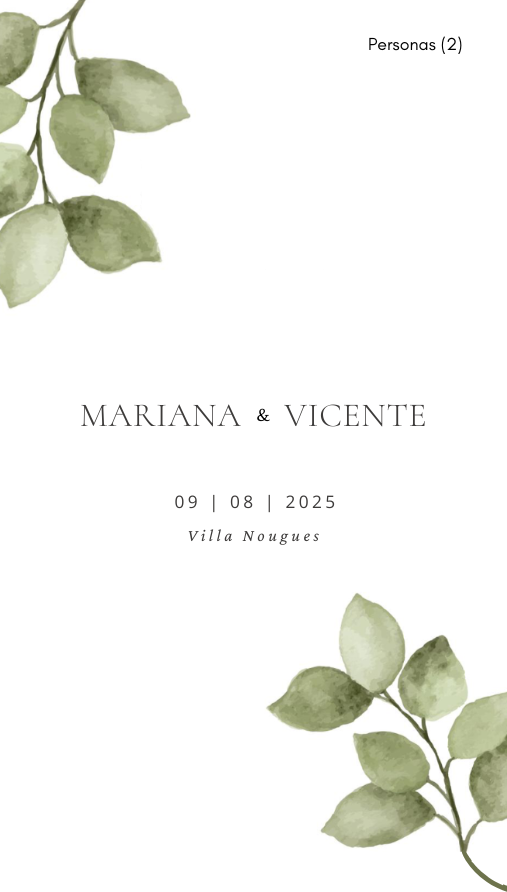
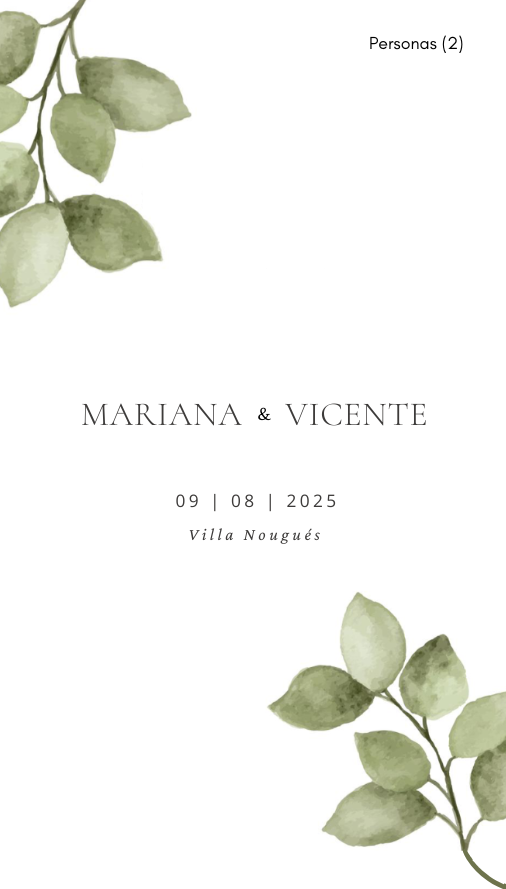
formularios

diff --git a/src/app/Mariana&Vicente(x1)/page.jsx b/src/app/Mariana&Vicente(x1)/page.jsx
@@ -39,7 +39,7 @@ CTA: 4274084-2 089-9
 CBU: 00700894-30004274084299
 CUIL: 27-37191501-5
 
-• Buzon en salon`;
+• Buzón en salón`;
 
   // Texto personalizado para la descripción de regalos
   const regaloDescripcion = " ";
@@ -77,7 +77,7 @@ CUIL: 27-37191501-5
         textColor={textColor}
       />
         <Confirmation
-          linkConfirmacion="https://forms.gle/fuzJNrEwuVzhaW4x7"
+          linkConfirmacion="https://forms.gle/ZFFBBPVn3rUhGFzz7"
           buttonClassColors={`${buttonBgColor} ${buttonTextColor} ${buttonHoverColor}`}
           textColor={textColor}
           descripcion="Nuestro festejo no sería lo mismo sin vos. Confirmanos tu presencia a

diff --git a/src/app/Mariana&Vicente(x1fiesta)/page.jsx b/src/app/Mariana&Vicente(x1fiesta)/page.jsx
@@ -39,7 +39,7 @@ CTA: 4274084-2 089-9
 CBU: 00700894-30004274084299
 CUIL: 27-37191501-5
 
-• Buzon en salon`;
+• Buzón en salón`;
 
   // Texto personalizado para la descripción de regalos
   const regaloDescripcion = " ";
@@ -74,7 +74,7 @@ CUIL: 27-37191501-5
         textColor={textColor}
       />
         <Confirmation
-          linkConfirmacion="https://forms.gle/fuzJNrEwuVzhaW4x7"
+          linkConfirmacion="https://forms.gle/6xwCsiibj9FYEw94A"
           buttonClassColors={`${buttonBgColor} ${buttonTextColor} ${buttonHoverColor}`}
           textColor={textColor}
           descripcion="Nuestro festejo no sería lo mismo sin vos. Confirmanos tu presencia a

diff --git a/src/app/Mariana&Vicente(x2)/page.jsx b/src/app/Mariana&Vicente(x2)/page.jsx
@@ -39,7 +39,7 @@ CTA: 4274084-2 089-9
 CBU: 00700894-30004274084299
 CUIL: 27-37191501-5
 
-• Buzon en salon`;
+• Buzón en salón`;
 
   // Texto personalizado para la descripción de regalos
   const regaloDescripcion = " ";
@@ -77,7 +77,7 @@ CUIL: 27-37191501-5
         textColor={textColor}
       />
         <Confirmation
-          linkConfirmacion="https://forms.gle/fuzJNrEwuVzhaW4x7"
+          linkConfirmacion="https://forms.gle/KAzm7arkhuyqe55w9"
           buttonClassColors={`${buttonBgColor} ${buttonTextColor} ${buttonHoverColor}`}
           textColor={textColor}
           descripcion="Nuestro festejo no sería lo mismo sin vos. Confirmanos tu presencia a

diff --git a/src/app/Mariana&Vicente(x2fiesta)/page.jsx b/src/app/Mariana&Vicente(x2fiesta)/page.jsx
@@ -39,7 +39,7 @@ CTA: 4274084-2 089-9
 CBU: 00700894-30004274084299
 CUIL: 27-37191501-5
 
-• Buzon en salon`;
+• Buzón en salón`;
 
   // Texto personalizado para la descripción de regalos
   const regaloDescripcion = " ";
@@ -74,7 +74,7 @@ CUIL: 27-37191501-5
         textColor={textColor}
       />
         <Confirmation
-          linkConfirmacion="https://forms.gle/fuzJNrEwuVzhaW4x7"
+          linkConfirmacion="https://forms.gle/m7cL72R96y21KdGw9"
           buttonClassColors={`${buttonBgColor} ${buttonTextColor} ${buttonHoverColor}`}
           textColor={textColor}
           descripcion="Nuestro festejo no sería lo mismo sin vos. Confirmanos tu presencia a
